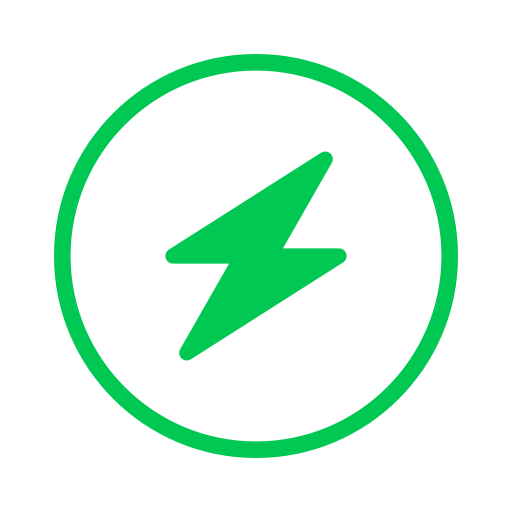
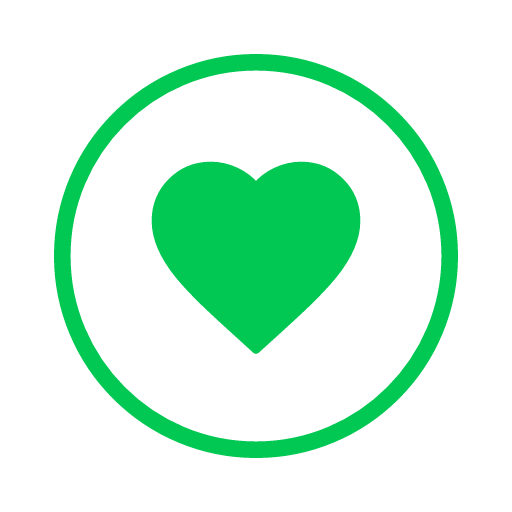
Zaktualizowano oficjalną ikonę aplikacji HealthUp (PNG i ścieżkę w README.md)

Changed region(s): [[0.2812, 0.2812, 0.7188, 0.7188]]

diff --git a/README.md b/README.md
@@ -92,7 +92,7 @@ Trzydzieści osiągnięć z wieloma poziomami zaawansowania, odnawialne wyzwania
 ## Logo aplikacji
 
 <p align="center">
-  <img src="voltup_app_icon.png" width="128" height="128" alt="Logo aplikacji HealthUp" />
+  <img src="healthup_app_icon.png" width="128" height="128" alt="Logo aplikacji HealthUp" />
 </p>
 <p align="center">
   <em>Oficjalna ikona aplikacji HealthUp</em>
